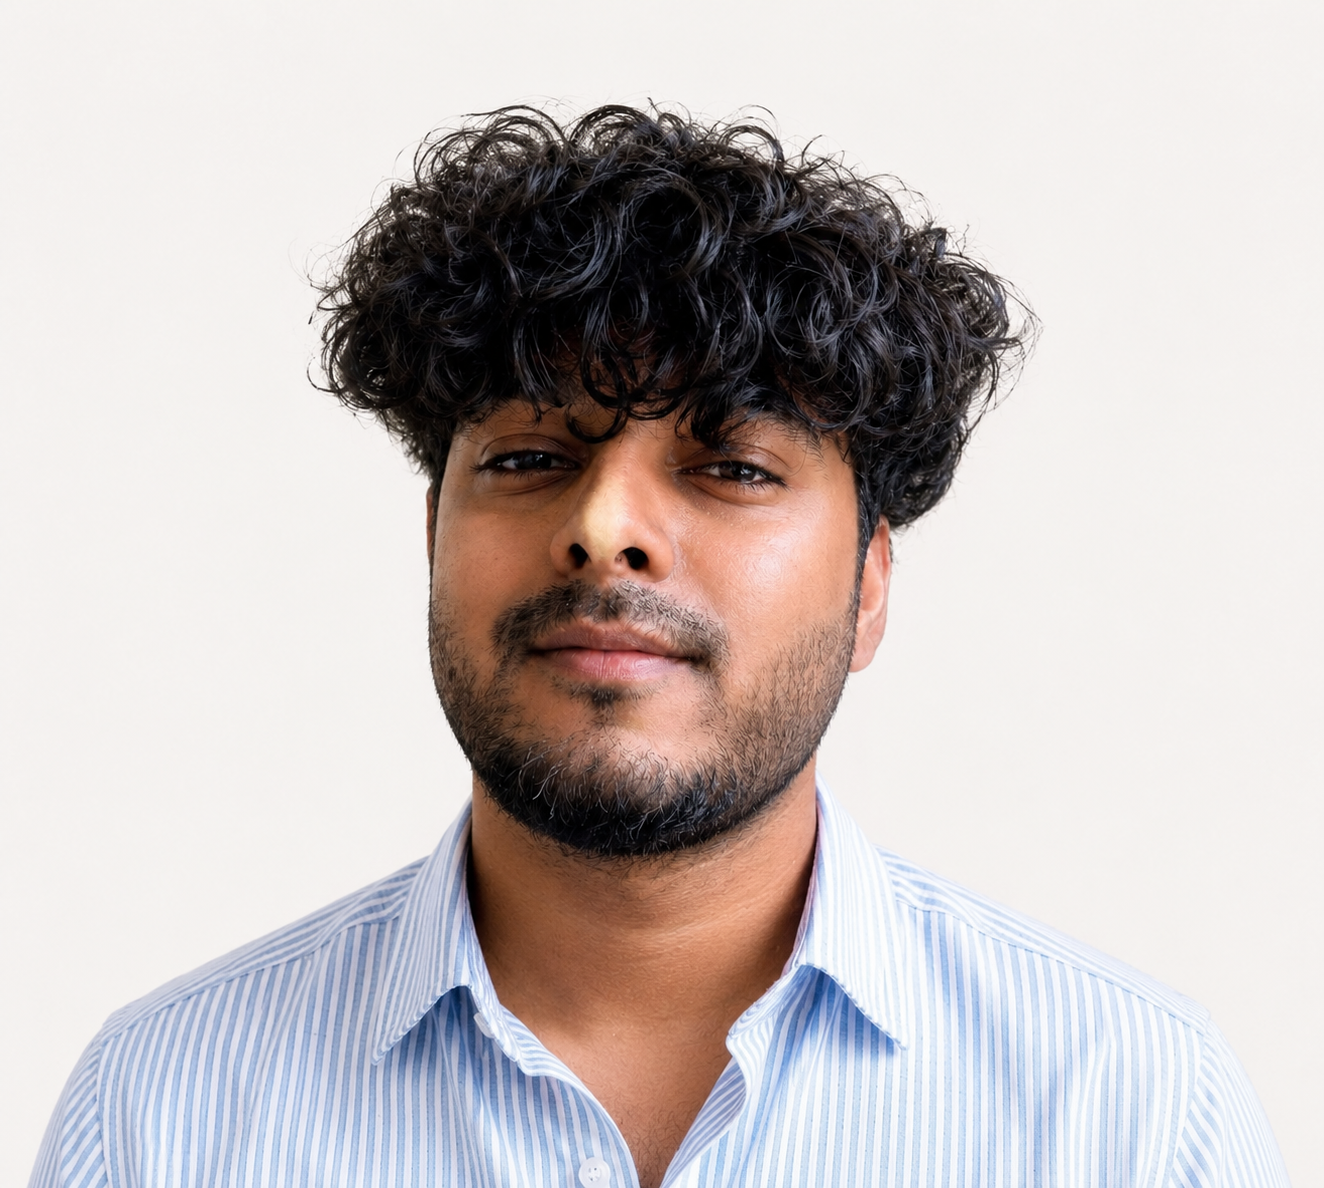
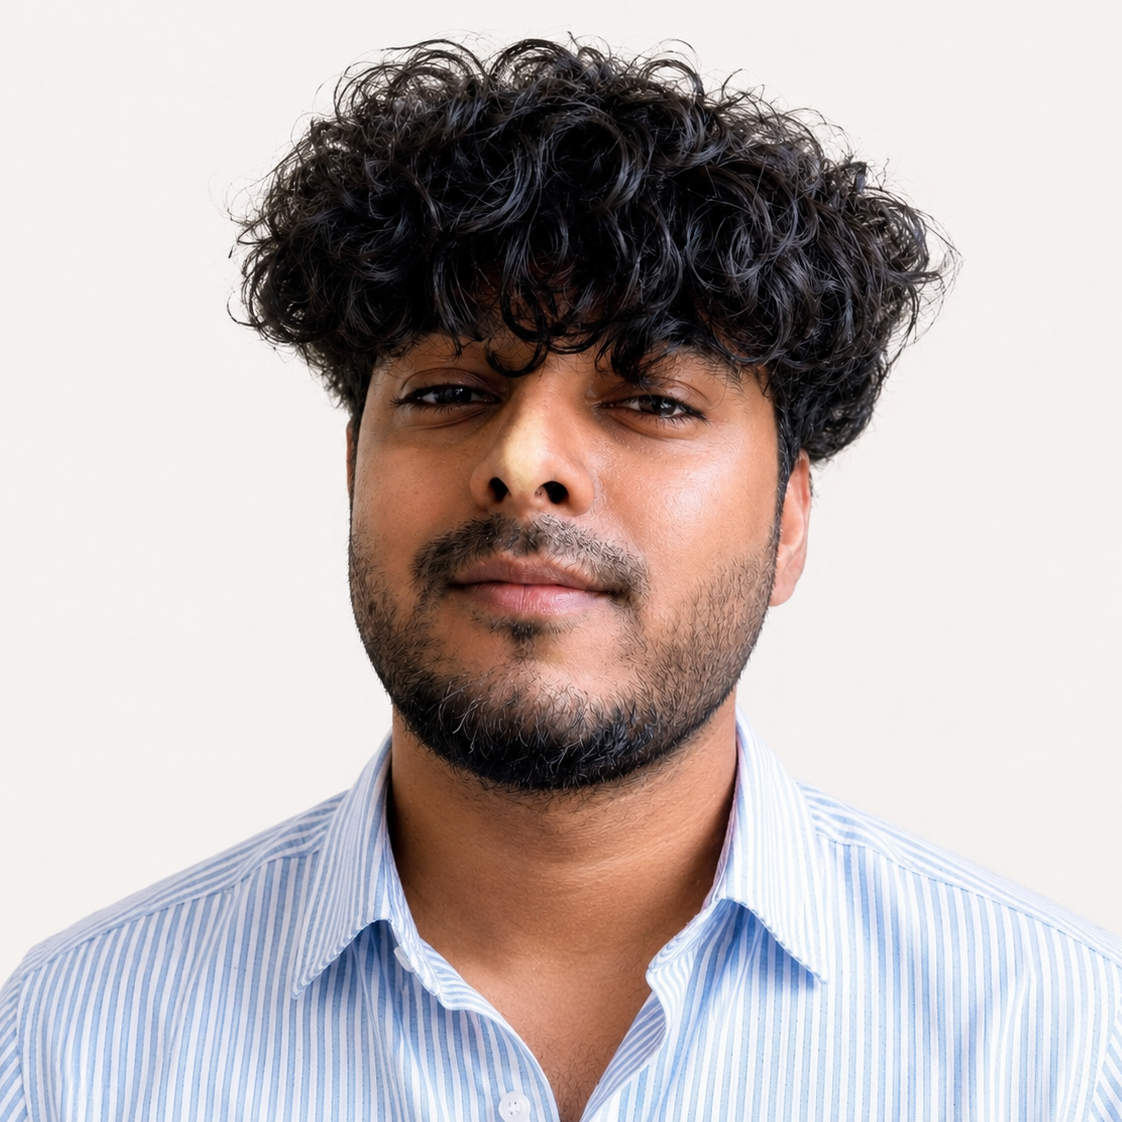
chore: remove hackathon

diff --git a/src/app/page.tsx b/src/app/page.tsx
@@ -135,11 +135,6 @@ export default function Page() {
           <ProjectsSection />
         </BlurFade>
       </section>
-      <section id="hackathons">
-        <BlurFade delay={BLUR_FADE_DELAY * 13}>
-          <HackathonsSection />
-        </BlurFade>
-      </section>
       <section id="contact">
         <BlurFade delay={BLUR_FADE_DELAY * 16}>
           <ContactSection />